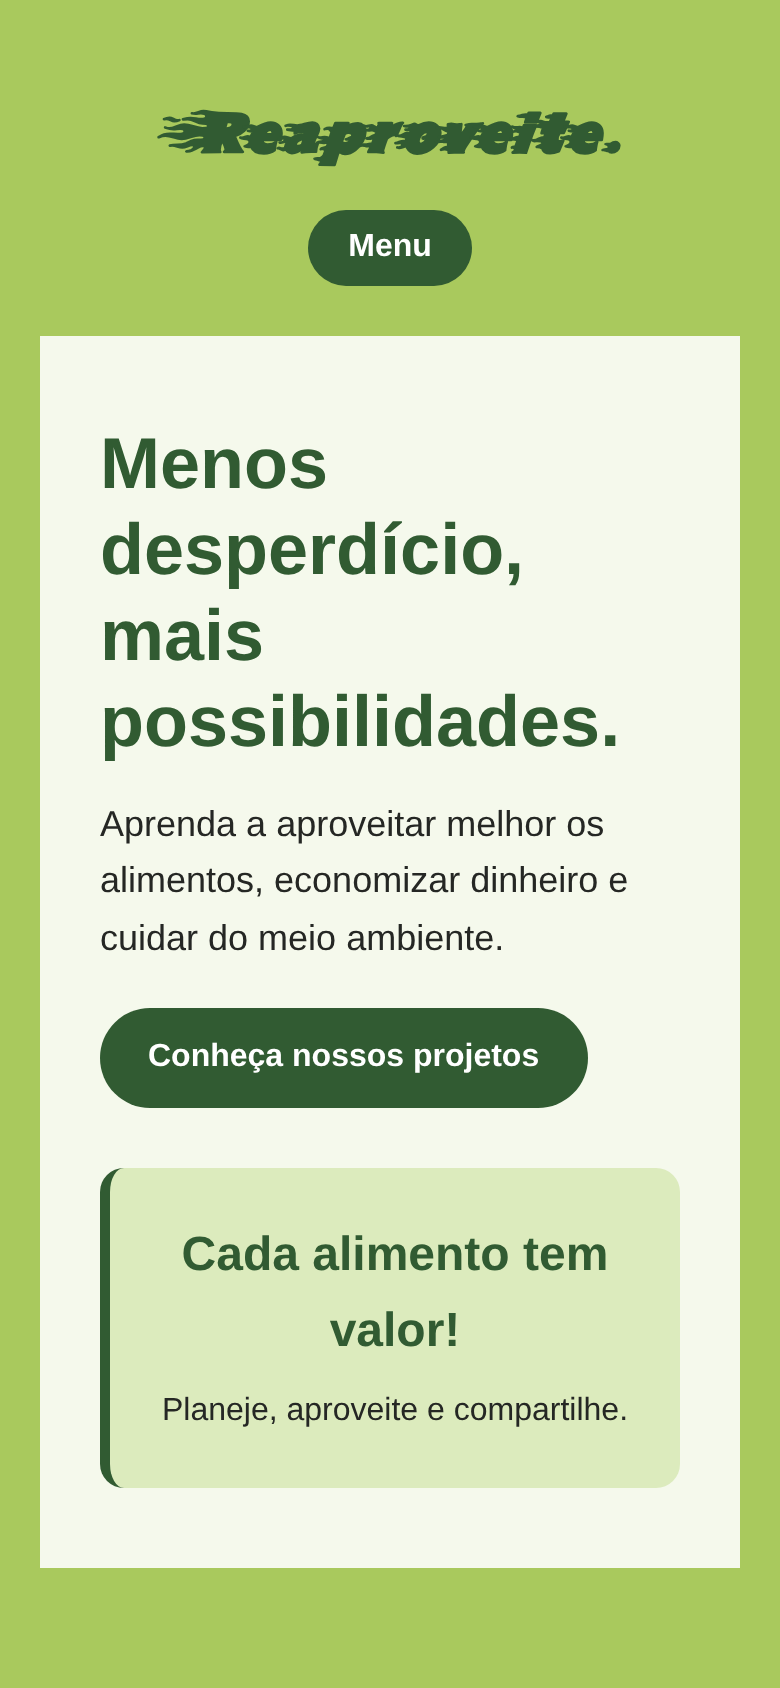
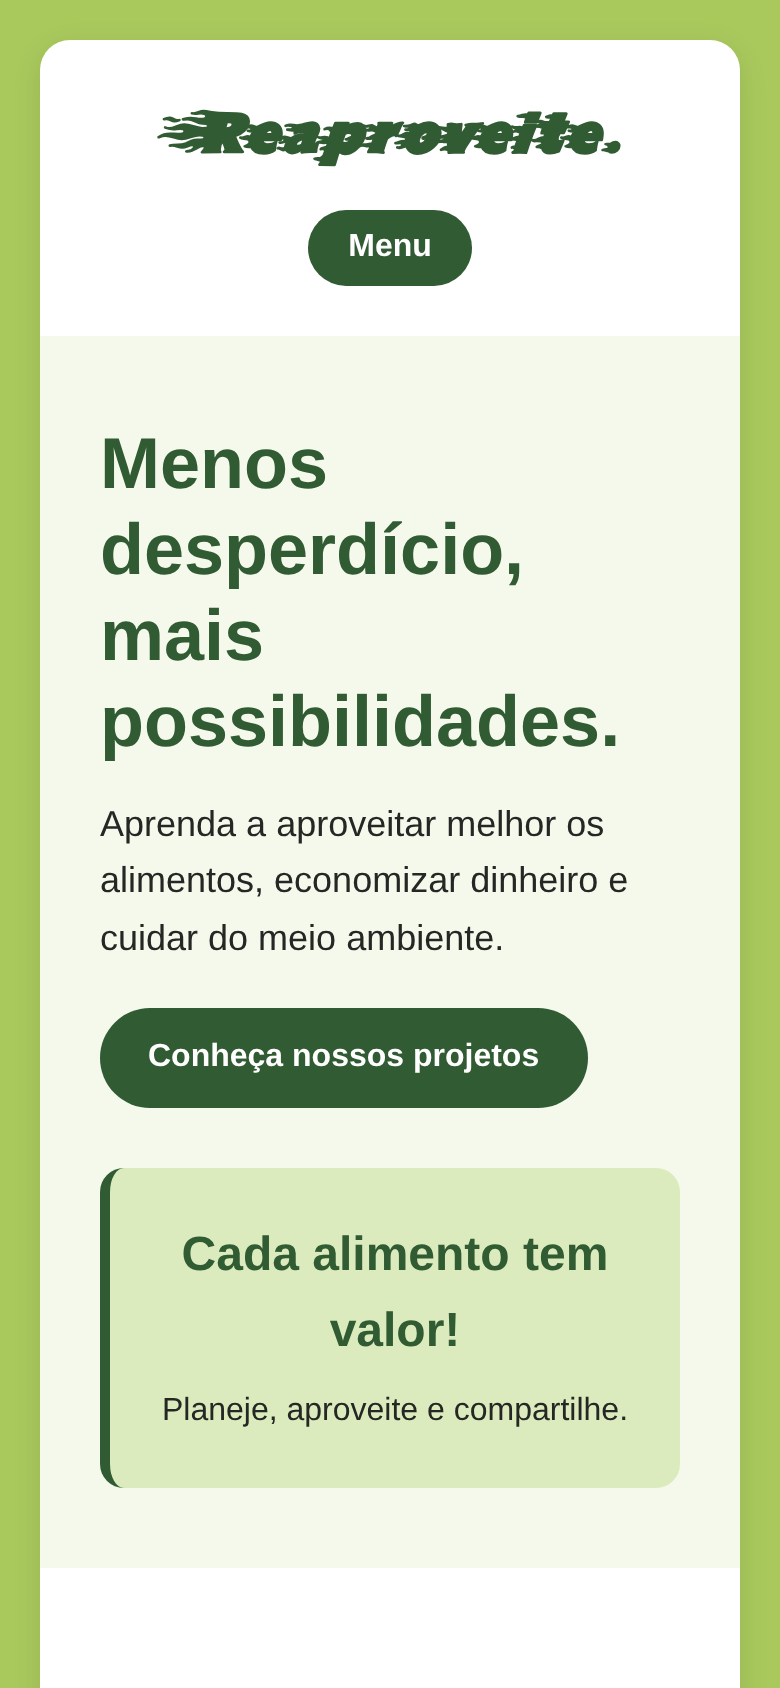
Corrige layout da home: classes com acento não batiam com o CSS
Claude-Session: https://claude.ai/code/session_014HnD9EGe9nh4S249P2tmEV

Changed region(s): [[0.0308, 0.0, 0.9538, 0.2156], [0.0308, 0.9242, 0.9538, 1.0]]

diff --git a/index.html b/index.html
@@ -8,8 +8,8 @@
     <link rel="stylesheet" href="css/style.css">
 </head>
 <body>
-    <div class="página">
-        <header class="cabeçalho">
+    <div class="pagina">
+        <header class="cabecalho">
             <h2><a href="index.html" class="logo">Reaproveite.</a></h2>
             <button class="menu-toggle" type="button" aria-expanded="false" aria-controls="menu-principal">Menu</button>
             <nav id="menu-principal" class="menu" aria-label="Menu principal">
